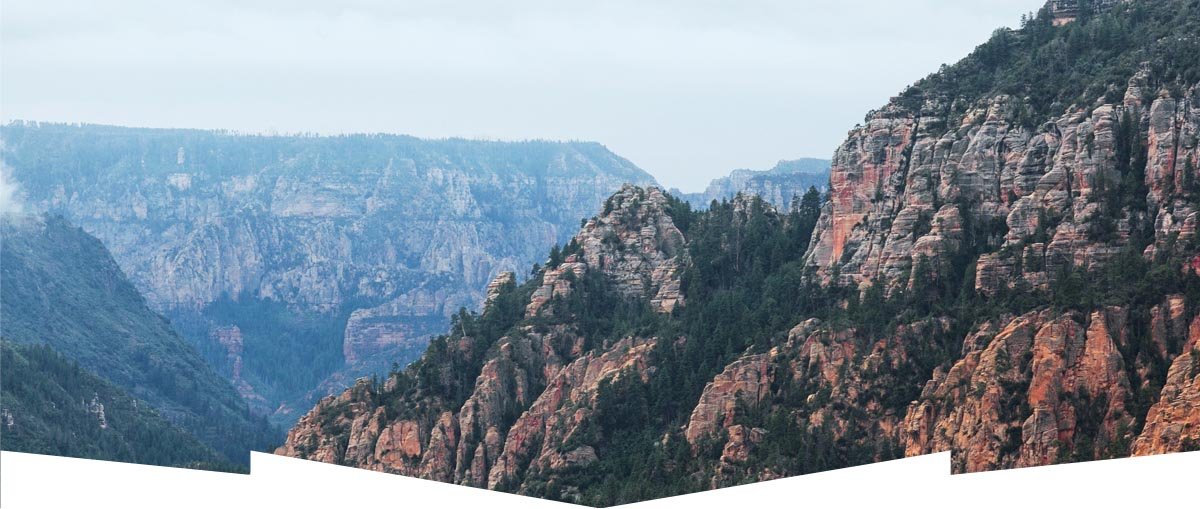
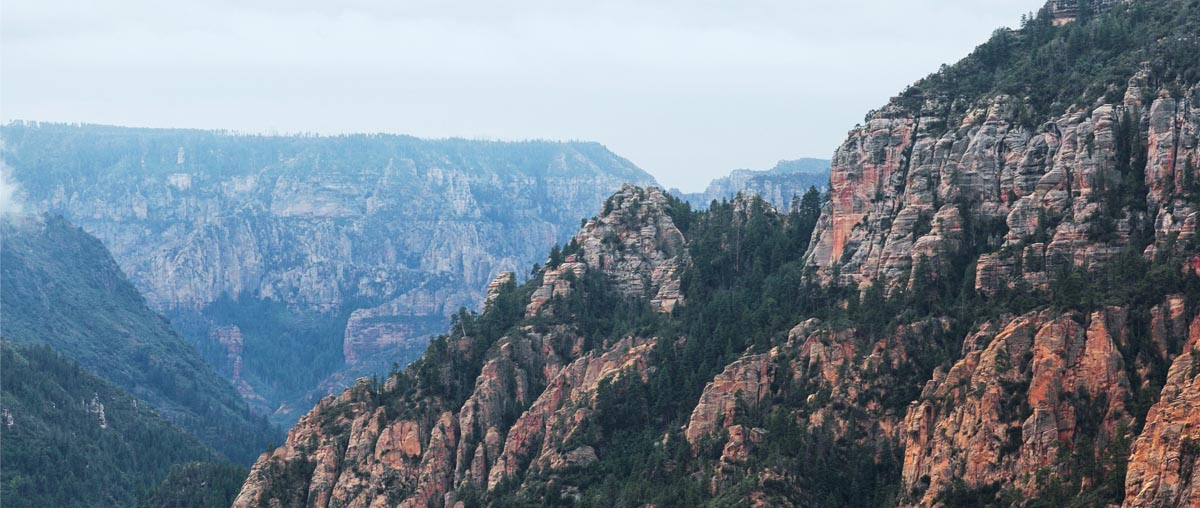
Исправлено 1. маска на первом экране слева немного до конца не доходит 2. со второй страницы логотип должен вести на главную 3. кнопки +- сейчас отправляют форму, не должны 5. карта должна находиться под футером, а у футера должна быть прозрачность 6календарю добавлен скрытый текст

diff --git a/index.html b/index.html
@@ -24,7 +24,7 @@
                   <li class="site-navigation-map">
                       <a href="map.html">Карта штата</a>
                   </li>
-                  <li class="site-navigation-hotels site-navigation-active">
+                  <li class="site-navigation-hotels">
                       <a href="hotels.html">Гостиницы</a>
                   </li>    
               </ul>
@@ -36,7 +36,12 @@
                   <span class="visually-hidden">
                       Седона &#8211; рай для отдыхающих посреди аризонской пустыни.
                   </span>
-                  <img class="title-sedona-img" src="img/intro-welcome.svg" width="459" height="353" alt="Добро пожаловать в Седону">   
+                  <img class="title-sedona-img" src="img/intro-welcome.svg" width="459" height="353" alt="Добро пожаловать в Седону">  
+<!--
+                  <svg xmlns="http://www.w3.org/2000/svg" width="1200" height="59" preserveAspectRatio="none" viewBox="0 0 1200 59">
+                      <path d="M0 57V0l250 24V0l350 57L950 0v24l250-24v57H0z" fill="#fff"/>
+                  </svg> 
+-->
               </h1>    
           </div>
           <div class="slogan-reasons-sedona">
@@ -138,7 +143,7 @@
                         <p class="search-form-item search-form-item-arrival search-form-arrival-calendar">
                               <label for="date-of-arrival">Дата заезда:</label>
                               <input id="date-of-arrival" type="text" placeholder="24 апреля 2017"  name="date-of-arrival">
-                              <a href="#" >
+                              <a href="#" aria-label="Открытие календаря">
                                   <svg class="date-of-arrival-calendar" xmlns="http://www.w3.org/2000/svg" width="21" height="22" viewBox="0 0 21 22">
                                   <path d="M19.251 2.025h-2.845V.648c0-.381-.294-.689-.656-.689-.363 0-.656.308-.656.689v1.377h-3.938V.648c0-.381-.294-.689-.655-.689-.363 0-.657.308-.657.689v1.377H5.906V.648c0-.381-.294-.689-.656-.689-.363 0-.657.308-.657.689v1.377H1.75C.784 2.025 0 2.847 0 3.862v16.302C0 21.179.784 22 1.75 22h17.501c.966 0 1.749-.821 1.749-1.836V3.862c0-1.015-.783-1.837-1.749-1.837zm.437 18.139a.448.448 0 0 1-.437.459H1.75a.45.45 0 0 1-.438-.459V3.862a.45.45 0 0 1 .438-.459h2.844v1.378c0 .381.294.689.657.689.362 0 .656-.308.656-.689V3.403h3.938v1.378c0 .381.294.689.657.689.361 0 .655-.308.655-.689V3.403h3.938v1.378c0 .381.293.689.656.689.362 0 .656-.308.656-.689V3.403h2.845c.241 0 .437.206.437.459v16.302z"/>
                                   <path d="M4.594 8.225h2.625v2.066H4.594zM4.594 11.668h2.625v2.067H4.594zM4.594 15.112h2.625v2.066H4.594zM9.188 15.112h2.625v2.066H9.188zM9.188 11.668h2.625v2.067H9.188zM9.188 8.225h2.625v2.066H9.188zM13.781 15.112h2.625v2.066h-2.625zM13.781 11.668h2.625v2.067h-2.625zM13.781 8.225h2.625v2.066h-2.625z"/>
@@ -148,7 +153,7 @@
                         <p class="search-form-item search-form-item-departure">
                             <label for="date-of-departure">Дата выезда:</label>
                             <input id="date-of-departure" type="text" placeholder="4 июля 2017"  name="date-of-departure">
-                            <a href="#">
+                            <a href="#" aria-label="Открытие календаря">
                                 <svg class="date-of-departure-calendar" xmlns="http://www.w3.org/2000/svg" width="21" height="22" viewBox="0 0 21 22">
                                       <path d="M19.251 2.025h-2.845V.648c0-.381-.294-.689-.656-.689-.363 0-.656.308-.656.689v1.377h-3.938V.648c0-.381-.294-.689-.655-.689-.363 0-.657.308-.657.689v1.377H5.906V.648c0-.381-.294-.689-.656-.689-.363 0-.657.308-.657.689v1.377H1.75C.784 2.025 0 2.847 0 3.862v16.302C0 21.179.784 22 1.75 22h17.501c.966 0 1.749-.821 1.749-1.836V3.862c0-1.015-.783-1.837-1.749-1.837zm.437 18.139a.448.448 0 0 1-.437.459H1.75a.45.45 0 0 1-.438-.459V3.862a.45.45 0 0 1 .438-.459h2.844v1.378c0 .381.294.689.657.689.362 0 .656-.308.656-.689V3.403h3.938v1.378c0 .381.294.689.657.689.361 0 .655-.308.655-.689V3.403h3.938v1.378c0 .381.293.689.656.689.362 0 .656-.308.656-.689V3.403h2.845c.241 0 .437.206.437.459v16.302z"/>
                                       <path d="M4.594 8.225h2.625v2.066H4.594zM4.594 11.668h2.625v2.067H4.594zM4.594 15.112h2.625v2.066H4.594zM9.188 15.112h2.625v2.066H9.188zM9.188 11.668h2.625v2.067H9.188zM9.188 8.225h2.625v2.066H9.188zM13.781 15.112h2.625v2.066h-2.625zM13.781 11.668h2.625v2.067h-2.625zM13.781 8.225h2.625v2.066h-2.625z"/>
@@ -158,13 +163,13 @@
                         <div class="search-container-adult">
                         <p class="search-form-item search-form-adult">
                              <label for="search-form-adult">Взрослые:</label>
-                             <button class="button-adult-remove">
+                             <button class="button-adult-remove" type="button" aria-label="Удаление взрослого">
                                   <svg class="adult-remove" width="10" height="10">
                                       <line x1="0" y1="5" x2="10" y2="5" stroke="#a9a9a9" stroke-width="3"/>
                                   </svg>
                               </button>
                               <input id="search-form-adult" type="text" value="2" min="1">
-                              <button class="button-adult-add">
+                              <button class="button-adult-add" type="button" aria-label="Добавление взрослого">
                                   <svg class="adult-add" width="10" height="10">
                                       <line x1="0" y1="5" x2="10" y2="5" stroke="#a9a9a9" stroke-width="3"/>
                                       <line x1="5" y1="0" x2="5" y2="10" stroke="#a9a9a9" stroke-width="3"/>
@@ -174,13 +179,13 @@
                         </p>
                         <p class="search-form-item item-quantity">
                               <label for="search-form-children">Дети:</label>
-                            <button class="button-children-remove">
+                            <button class="button-children-remove" type="button" aria-label="Удаление ребенка">
                                   <svg class="children-remove" width="10" height="10">
                                       <line x1="0" y1="5" x2="10" y2="5" stroke="#a9a9a9" stroke-width="3"/>
                                   </svg>
                               </button>                   
                               <input class="search-form-children-input" id="search-form-children" type="text" value="0" min="0">
-                              <button class="button-children-add">
+                              <button class="button-children-add" type="button" aria-label="Добавление ребенка">
                               <svg class="children-add" width="10" height="10">  
                                   <line x1="0" y1="5" x2="10" y2="5" stroke="#a9a9a9" stroke-width="3"/>
                                   <line x1="5" y1="0" x2="5" y2="10" stroke="#a9a9a9" stroke-width="3"/>
@@ -195,7 +200,7 @@
           </section>
           <section class="map">
               <h2 class="visually-hidden">Наше расположение на карте</h2>
-              <iframe aria-label="Наш адрес Соединённые Штаты Америки, Аризона, Седона, кординаты GPS: 34.7796,-111.7642" src="https://www.google.com/maps/d/u/0/embed?mid=1Sqgo7A9gjh6U2HciOXQwVV-Y9-s4x4Tw" width="1200" height="473"></iframe>              
+              <iframe aria-label="Наш адрес Соединённые Штаты Америки, Аризона, Седона, кординаты GPS: 34.7796,-111.7642" src="https://www.google.com/maps/d/u/0/embed?mid=1Sqgo7A9gjh6U2HciOXQwVV-Y9-s4x4Tw" width="1200" height="573"></iframe>           
           </section>
       </main>   
       <footer class="main-footer">
@@ -228,7 +233,7 @@
               </ul>          
               <div class="footer-logo">
                   <span>Website by</span>
-                  <a href="https://htmlacademy.ru/intensive/htmlcss">  
+                  <a href="https://htmlacademy.ru/intensive/htmlcss" aria-label="Сайт htmlacademy"> 
                       <svg class="footer-logo-img" width="115px" height="41px" data-name="Layer 1" xmlns="http://www.w3.org/2000/svg" viewBox="0 0 108.08 36.85">
                           <title>logo-htmlacademy-small1</title>             
                           <path d="M44.61,26.88a2,2,0,0,0,.55-0.1v1.33a3.25,3.25,0,0,1-1.18.21,1.67,1.67,0,0,1-1.67-1,4.84,4.84,0,0,1-3.14,1.08c-1.51,0-2.91-.83-2.91-2.55,0-2.13,2-2.79,3.71-2.79a11.08,11.08,0,0,1,2.17.25v-0.3c0-1-.76-1.77-2.19-1.77a7.42,7.42,0,0,0-3,.64v-1.7a10.21,10.21,0,0,1,3.19-.55c2.36,0,3.81,1.12,3.81,3.65v3a0.54,0.54,0,0,0,.49.59h0.17Zm-6.44-1.13A1.35,1.35,0,0,0,39.63,27h0.11a3.39,3.39,0,0,0,2.41-1V24.58a9.72,9.72,0,0,0-1.81-.21c-1,0-2.16.33-2.16,1.38h0Zm12.36-6.11a5,5,0,0,1,2.57.64V22a4.08,4.08,0,0,0-2.3-.7,2.75,2.75,0,1,0,0,5.49,5,5,0,0,0,2.43-.64v1.71a6.27,6.27,0,0,1-2.76.57A4.21,4.21,0,0,1,46,24.51q0-.21,0-0.41a4.32,4.32,0,0,1,4.18-4.46h0.38Zm12.17,7.24a2,2,0,0,0,.55-0.1v1.33a3.25,3.25,0,0,1-1.18.21,1.67,1.67,0,0,1-1.67-1,4.84,4.84,0,0,1-3.14,1.08c-1.51,0-2.91-.83-2.91-2.55,0-2.13,2-2.79,3.71-2.79a11.08,11.08,0,0,1,2.17.25v-0.3c0-1-.76-1.77-2.19-1.77a7.42,7.42,0,0,0-3,.64v-1.7a10.21,10.21,0,0,1,3.19-.55c2.36,0,3.81,1.12,3.81,3.65v3a0.54,0.54,0,0,0,.49.59h0.17Zm-6.44-1.13A1.35,1.35,0,0,0,57.73,27h0.11a3.39,3.39,0,0,0,2.41-1V24.58a9.72,9.72,0,0,0-1.81-.21c-1.06,0-2.16.33-2.16,1.38h0ZM73,16V28.2H71.35V26.88a3.88,3.88,0,0,1-3.19,1.54,4.4,4.4,0,0,1,0-8.78,3.81,3.81,0,0,1,3,1.3V16H73Zm-4.53,5.22a2.76,2.76,0,1,0,0,5.52A2.86,2.86,0,0,0,71.15,25V23A2.91,2.91,0,0,0,68.49,21.27ZM79,19.64c3.31,0,4.46,2.68,3.92,5.09H76.7c0.21,1.5,1.67,2.11,3.19,2.11a6.11,6.11,0,0,0,2.64-.59v1.6a7.14,7.14,0,0,1-3,.57C77,28.42,74.78,27,74.78,24a4.18,4.18,0,0,1,4-4.39H79Zm0.09,1.54a2.28,2.28,0,0,0-2.44,2.1v0.06H81.3A2,2,0,0,0,79.13,21.18Zm5.73,7V19.87h1.65v1a3.81,3.81,0,0,1,2.78-1.27A2.86,2.86,0,0,1,91.89,21a4.12,4.12,0,0,1,2.91-1.33A3.06,3.06,0,0,1,98,23V28.2h-1.9V23.05a1.59,1.59,0,0,0-1.42-1.75H94.42a2.8,2.8,0,0,0-2.07,1.12V28.2h-1.9V23.05A1.59,1.59,0,0,0,89,21.31H88.8a3,3,0,0,0-2.21,1.29v5.63H84.86Zm21.31-8.33h1.9l-3.91,9.46c-0.9,2.17-2.09,2.86-3.35,2.86a4.76,4.76,0,0,1-1.1-.14V30.46a2.86,2.86,0,0,0,.85.12c0.9,0,1.58-.64,2.07-1.9l0.17-.42-4-8.4h2l2.86,6.29ZM38.73,1.46V6.22a3.81,3.81,0,0,1,2.7-1.14,3.25,3.25,0,0,1,3.44,3.4v5.15H43V8.72a1.81,1.81,0,0,0-1.61-2h-0.3a2.93,2.93,0,0,0-2.32,1.39v5.52h-1.9V1.46h1.9ZM49.94,2.31v3h3V6.91h-3v3.81c0,1.1.5,1.46,1.58,1.46a4.49,4.49,0,0,0,1.69-.33v1.6A6.8,6.8,0,0,1,51,13.8a2.55,2.55,0,0,1-2.86-2.74V6.89H46.58V5.26h1.5V2.74Zm5.4,11.31V5.28H57v1A3.81,3.81,0,0,1,59.77,5a2.86,2.86,0,0,1,2.6,1.33A4.12,4.12,0,0,1,65.28,5,3.06,3.06,0,0,1,68.44,8.4v5.21h-1.9V8.46a1.59,1.59,0,0,0-1.42-1.75H64.89a2.8,2.8,0,0,0-2.07,1.12v5.78h-1.9V8.46A1.59,1.59,0,0,0,59.5,6.71H59.27A3,3,0,0,0,57.06,8v5.63H55.34ZM71.17,1.45H73V13.6H71.17V1.45ZM14.71,0H14.55L0,1.54V28.21l14.55,8.66,14.55-8.66V1.54Zm12.5,27.1L14.55,34.64,1.9,27.12V16.18l12.59,7.5V25L5.86,19.9v1.31l8.68,5.21v1.39L5.87,22.65V24l8.68,5.21,8.75-5.24V18.31L27.2,16V27.12Zm0-12.53-3.48,2-1.6,1L14.51,13v1.31L21,18.23H21l-0.14.09-1,.54-5.37-3.2V17l4.24,2.52-1,.67-3.2-1.9v1.31l2.1,1.24L14.5,22.1,2,14.65,14.51,7.11Zm0-1.32L14.49,5.76,1.91,13.25v-10L14.56,1.92,27.21,3.25v10h0Z" transform="translate(0 -0.02)" fill="#231f20"/>

diff --git a/css/style.css b/css/style.css
@@ -61,6 +61,7 @@ input[type="radio"].visually-hidden {
 
 .main-header-logo {
     position: absolute;
+/*    z-index: 2;*/
     left:50%;   
     
     transform: translateX(-50%);    
@@ -91,7 +92,8 @@ input[type="radio"].visually-hidden {
     text-align: left;
 }
 
-.site-navigation .site-navigation-gallery {
+/*.site-navigation:nth-child(2n):not(last-child) */
+.site-navigation .site-navigation-gallery{
     padding-left: 0;
     margin-right: 320px;
     
@@ -132,21 +134,28 @@ input[type="radio"].visually-hidden {
     background-color: #ffffff;
 }
 
-.title-sedona {
-    background-image: url("../img/title-background.jpg");
-    background-position: top top;
-    background-repeat: no-repeat;    
+.title-sedona {    
+    background:  url("../img/intro-mask.svg") bottom no-repeat,
+                 url("../img/title-background.jpg") top no-repeat;
 }
 
 .title-sedona h1 {
     margin: 0; 
     padding-top: 76px;
-    padding-bottom: 79px;
+    padding-bottom: 82px;
 }
 
 .title-sedona-img {
     display: block;
     margin: 0 auto;
+}
+
+.title-sedona svg {
+/*
+   position: absolute;
+    bottom: 0;
+*/
+    
 }
 
 .slogan-reasons-sedona {
@@ -158,7 +167,7 @@ input[type="radio"].visually-hidden {
     width: 576px;
     margin: 0 auto;
     margin-bottom: 29px;
-    padding-top: 59px;
+    padding-top: 57px;
     
     font-size: 21px;
     color: #000000;
@@ -497,8 +506,8 @@ padding-left: 62px;
 
 /*______________Модальное окно поиска гостиницы ________*/
 .search {
-   position: absolute;
-    
+    position: absolute;
+    z-index: 3;
     left: 357px;
     
     font-weight: bold;
@@ -768,19 +777,32 @@ padding-left: 62px;
     background-color: #503e33;
 }
 /*________________Карта_________________*/
+.map{
+    position: relative;
+}
 
 .map iframe{
     border: none;
+    position: absolute;
+    top: 0;
+    left: 0;
+    z-index: 2;
 }
 
 /*_______________Подвал_______________*/
 
-.main-footer {    
-    padding: 29px 73px;
+.main-footer { 
+    position: relative;
+    z-index: 3;
+    margin-top: 474px;
+    padding: 31px 73px;
     
     line-height: 26px;       
     
-    background-color: #ffffff;  
+    background-color: rgba(255, 255, 255, 0.5);  
+}
+.main-footer.inner{
+    margin-top: 0px;
 }
 
 .main-footer-container {

diff --git a/hotels.html b/hotels.html
@@ -11,7 +11,7 @@
       <div class="container-body">
       <header class="main-header">
           <nav class="main-navigation">
-              <a class="main-header-logo">
+              <a class="main-header-logo" href="index.html">
                   <img src="img/logo-sedona.svg" width="140" height="72" alt="Логотип город Седона">
               </a>
               <ul class="site-navigation">
@@ -241,7 +241,7 @@
               </ul>
           </section>
       </main>   
-      <footer class="main-footer">
+      <footer class="main-footer inner">
           <div class="main-footer-container">
               <span class="icon-visitsedona">#visitsedona</span>          
               <ul class="social-list">
